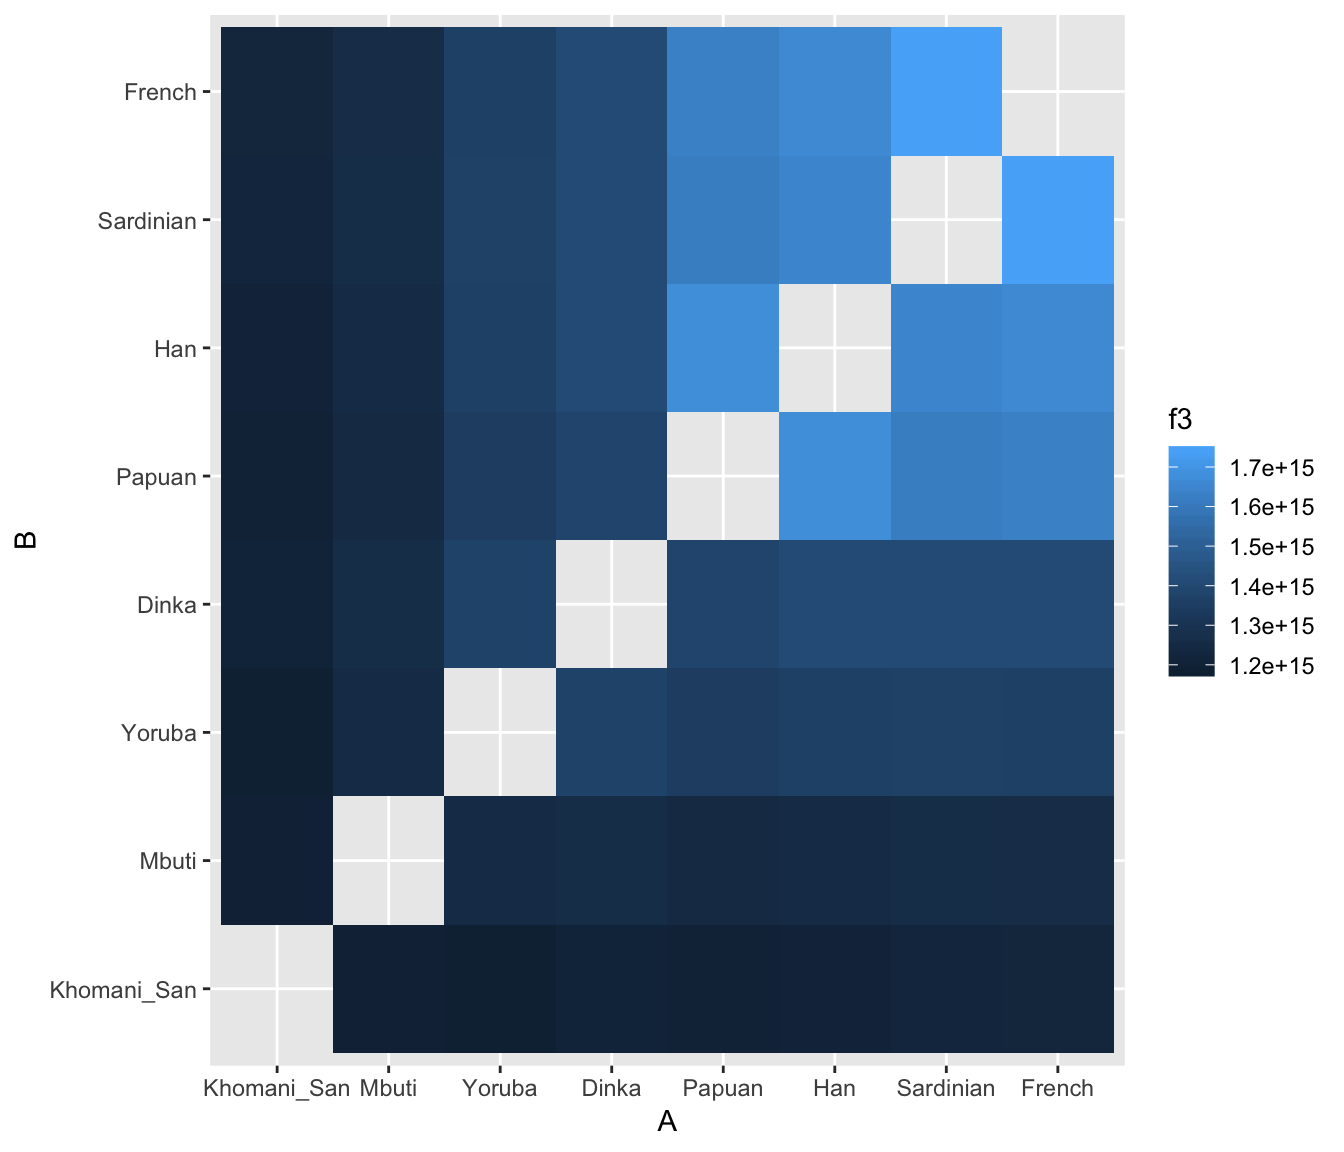
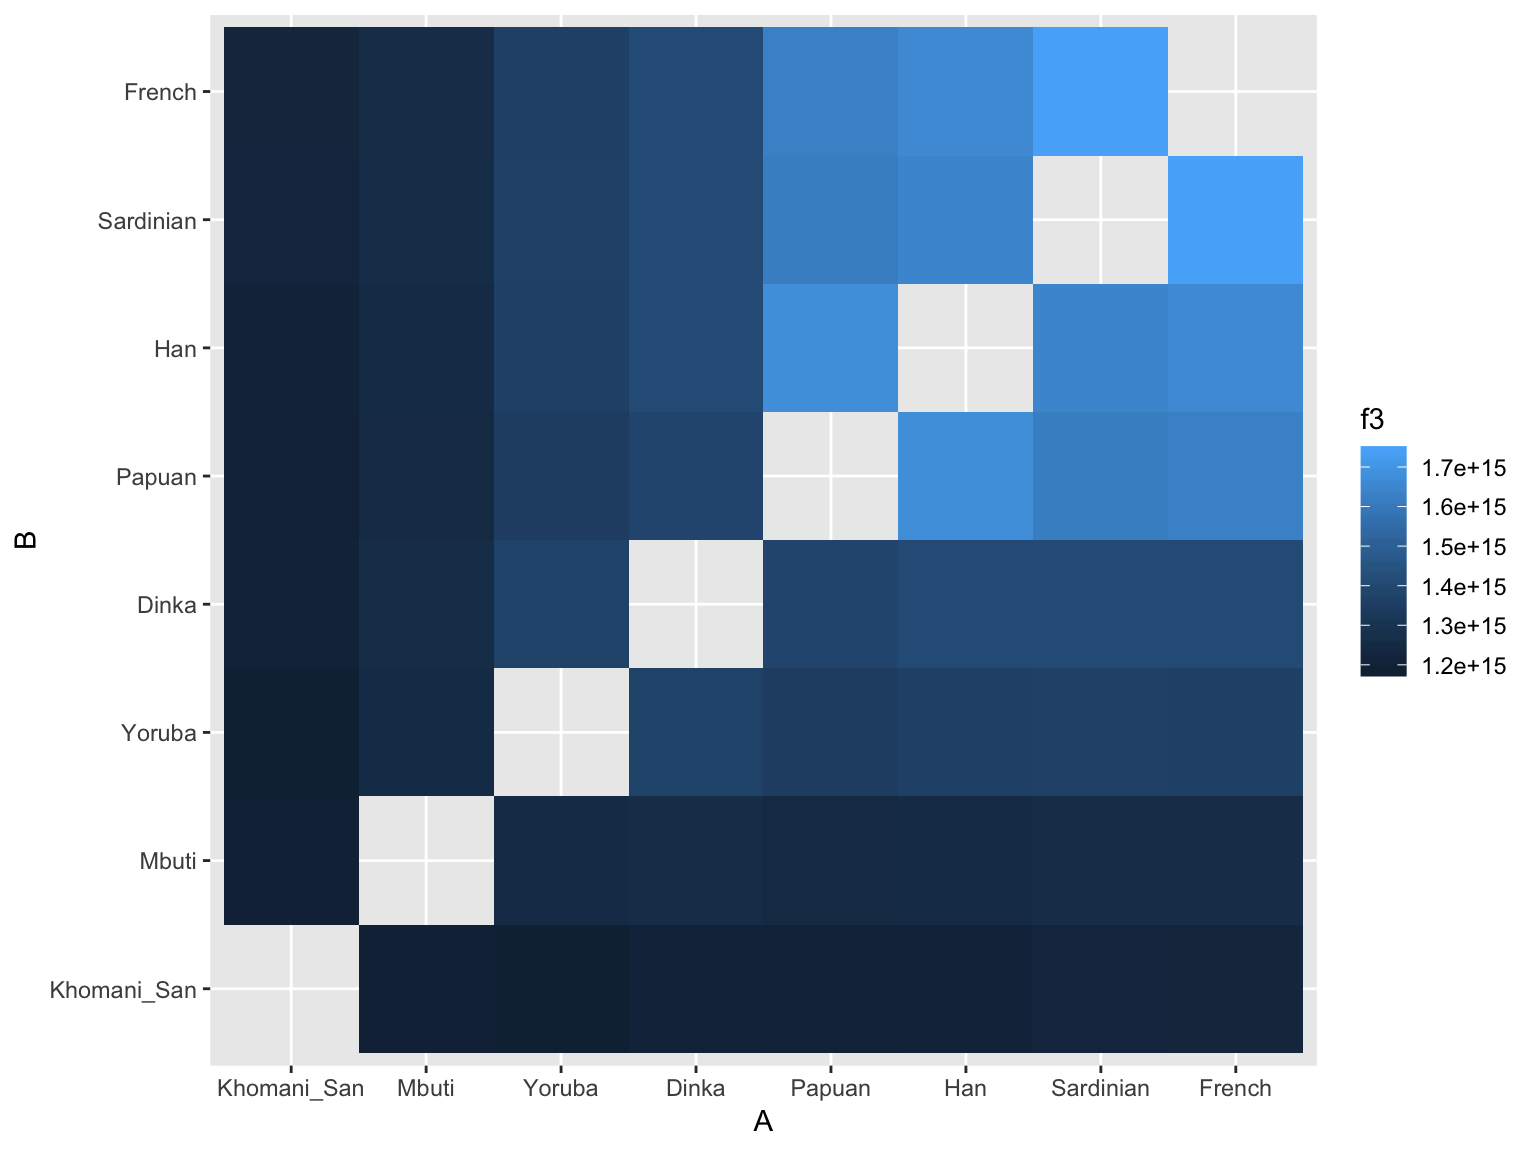
Update website

diff --git a/docs/articles/tutorial.html b/docs/articles/tutorial.html
@@ -114,12 +114,12 @@
 <p>When everything is ready, you can run:</p>
 <div class="sourceCode" id="cb3"><pre class="sourceCode r"><code class="sourceCode r"><a class="sourceLine" id="cb3-1" data-line-number="1"><span class="kw">library</span>(admixr)</a>
 <a class="sourceLine" id="cb3-2" data-line-number="2"><span class="kw">library</span>(tidyverse)</a>
-<a class="sourceLine" id="cb3-3" data-line-number="3"><span class="co">#&gt; ── Attaching packages ────────────────────────────────────────────────────────────────────────── tidyverse 1.2.1 ──</span></a>
+<a class="sourceLine" id="cb3-3" data-line-number="3"><span class="co">#&gt; ── Attaching packages ─────────────────────────────────────────────────────── tidyverse 1.2.1 ──</span></a>
 <a class="sourceLine" id="cb3-4" data-line-number="4"><span class="co">#&gt; ✔ ggplot2 3.0.0     ✔ purrr   0.2.5</span></a>
 <a class="sourceLine" id="cb3-5" data-line-number="5"><span class="co">#&gt; ✔ tibble  1.4.2     ✔ dplyr   0.7.6</span></a>
 <a class="sourceLine" id="cb3-6" data-line-number="6"><span class="co">#&gt; ✔ tidyr   0.8.1     ✔ stringr 1.3.1</span></a>
 <a class="sourceLine" id="cb3-7" data-line-number="7"><span class="co">#&gt; ✔ readr   1.1.1     ✔ forcats 0.3.0</span></a>
-<a class="sourceLine" id="cb3-8" data-line-number="8"><span class="co">#&gt; ── Conflicts ───────────────────────────────────────────────────────────────────────────── tidyverse_conflicts() ──</span></a>
+<a class="sourceLine" id="cb3-8" data-line-number="8"><span class="co">#&gt; ── Conflicts ────────────────────────────────────────────────────────── tidyverse_conflicts() ──</span></a>
 <a class="sourceLine" id="cb3-9" data-line-number="9"><span class="co">#&gt; ✖ dplyr::filter() masks stats::filter()</span></a>
 <a class="sourceLine" id="cb3-10" data-line-number="10"><span class="co">#&gt; ✖ dplyr::lag()    masks stats::lag()</span></a></code></pre></div>
 <p><strong>Note that in order to run <code>admixr</code> analyses, you need a working installation of ADMIXTOOLS!</strong> Explaining how to compile it is beyond the scope of this document, but you can find help <a href="https://github.com/DReichLab/AdmixTools">here</a>. <strong>Furthermore, you need to make sure that R can find ADMIXTOOLS binaries on the <code>$PATH</code>.</strong> If this is not the case, running <code>library(admixr)</code> will show a warning message with instructions on how to fix this.</p>
@@ -620,7 +620,7 @@ Guinea - more than 4%!</li>
 <a class="sourceLine" id="cb21-6" data-line-number="6"><span class="st">  </span><span class="kw">mutate</span>(<span class="dt">A =</span> <span class="kw">factor</span>(A, <span class="dt">levels =</span> ordered),</a>
 <a class="sourceLine" id="cb21-7" data-line-number="7">         <span class="dt">B =</span> <span class="kw">factor</span>(B, <span class="dt">levels =</span> ordered)) <span class="op">%&gt;%</span></a>
 <a class="sourceLine" id="cb21-8" data-line-number="8"><span class="st">  </span><span class="kw">ggplot</span>(<span class="kw">aes</span>(A, B)) <span class="op">+</span><span class="st"> </span><span class="kw">geom_tile</span>(<span class="kw">aes</span>(<span class="dt">fill =</span> f3))</a></code></pre></div>
-<p><img src="tutorial_files/figure-html/unnamed-chunk-25-1.png" width="672"></p>
+<p><img src="tutorial_files/figure-html/unnamed-chunk-25-1.png" width="768"></p>
 <p>We can see that when we order the heat map labels based on values of pairwise <span class="math inline">\(f_3\)</span> statistics, the decreasing divergence times between human populations (left to right and bottom up) shows beautifully.</p>
 </div>
 <div id="qpadm-method" class="section level2">

diff --git a/docs/articles/paper.html b/docs/articles/paper.html
@@ -83,7 +83,6 @@
   <div class="col-md-9 contents">
     <div class="page-header toc-ignore">
       <h1>admixr - paper</h1>
-                        <h4 class="author">Martin Petr, Janet Kelso</h4>
             
             <h4 class="date">2018-08-26</h4>
       
@@ -101,7 +100,6 @@
 <div id="abstract" class="section level2">
 <h2 class="hasAnchor">
 <a href="#abstract" class="anchor"></a>Abstract</h2>
-<p>We present a new package for the R programming language that provides convenient wrappers for ADMIXTOOLS command-line utilities and completely abstract away all technical details This package not only drastically reduces the amount of code needed to perform population genetic analyses, but presents a significant improvement for reproducible research by making it possible to build fully automatic analytic pipelines.</p>
 </div>
 <div id="introduction" class="section level2">
 <h2 class="hasAnchor">
@@ -110,8 +108,6 @@
 <div id="implementation" class="section level2">
 <h2 class="hasAnchor">
 <a href="#implementation" class="anchor"></a>Implementation</h2>
-<p>The <code>admixr</code> is implemented in the R programming language. The main interface for the user consists of several R functions.</p>
-<p>Generally, performing even the most trivial analysis using the ADMIXTOOLS package presents a significant amount of work for the user. For example, in order to calculate <span class="math inline">\(D\)</span> statistic such as <span class="math inline">\(D(W, X, Y, Z)\)</span>, the user needs to do the following:</p>
 </div>
 <div id="examples" class="section level2">
 <h2 class="hasAnchor">
